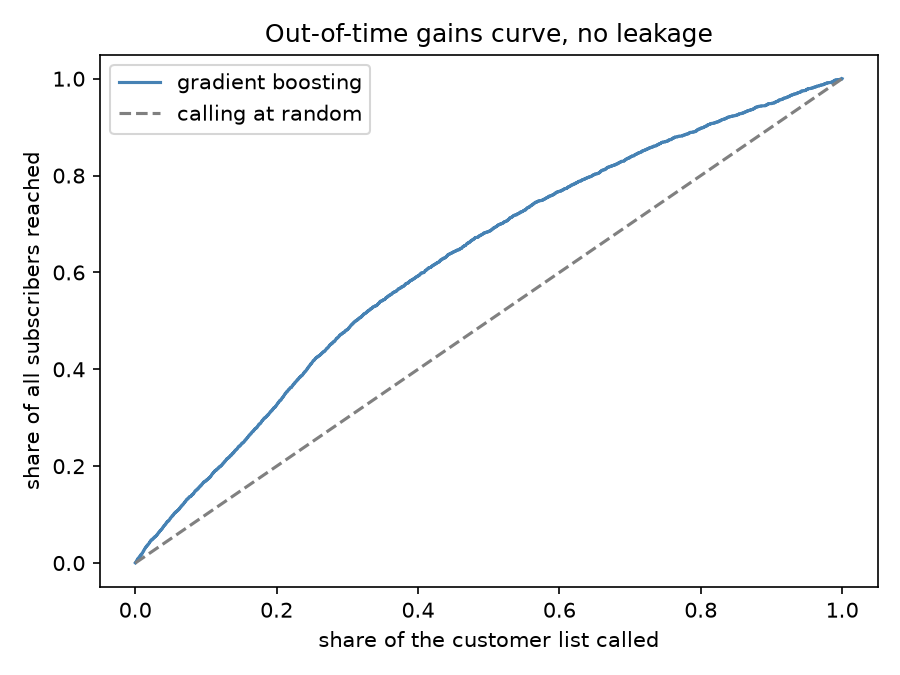
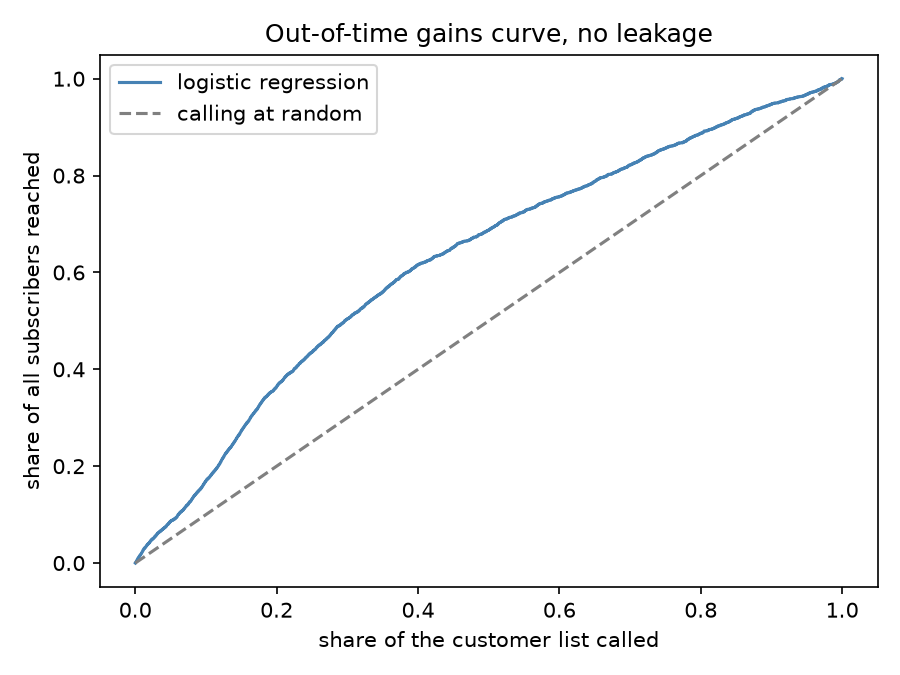
docs: fold the review-round results into README, PLAN and the dev log
README now carries the reference-model evidence, the segment and
calibration artifacts, and the corrected gains figures (top 30% of the
list reaches 50% of subscribers under the logistic reference). PLAN
records the outcomes of the six review items rather than just the
intentions. The development log gains a section on the review round,
including two more wrong test fixtures and the piped-exit-code habit
that let failing commits land before being amended.

diff --git a/README.md b/README.md
@@ -16,12 +16,13 @@ Requires [uv](https://docs.astral.sh/uv/) and Python 3.12+.
 ```bash
 make install    # uv sync — creates .venv from the committed lock file
 make train      # reproduces every number quoted in this repo (~55s)
-make test       # 47 tests
+make test       # 59 tests
 make lint       # ruff
 ```
 
-`make train` reads `data/dataset.csv` and writes `artifacts/results.csv`,
-`artifacts/results.md` and `artifacts/gains_curve.png`. It is seeded, so a second run
+`make train` reads `data/dataset.csv` and writes everything in `artifacts/`: the results
+grid, the reference-model comparison with bootstrap CIs, per-segment metrics, the model
+coefficients, and the gains and reliability curves. It is seeded, so a second run
 reproduces identical numbers.
 
 ## Results
@@ -41,9 +42,24 @@ half is an over-optimistic split. The 0.803 figure matches the range published f
 random-CV treatments of this data, which is a useful sign the pipeline is not doing
 anything exotic.
 
+**The reference model is logistic regression, chosen on evidence rather than habit.**
+Out of time, a paired bootstrap ([artifacts/reference_comparison.md](artifacts/reference_comparison.md))
+shows it statistically tied with gradient boosting on ROC-AUC (delta CI −0.005 to 0.014)
+and *significantly better* on PR-AUC (delta CI 0.001 to 0.023). A tie breaks toward the
+model whose coefficients can be read and challenged.
+
+Two evaluations that a single blended number would hide:
+
+- **Segments** ([artifacts/segments.md](artifacts/segments.md)): the same model scores
+  0.738 AUC on re-contact customers but 0.606 on cold calls — its skill lives mostly in
+  campaign-history features that cold-call customers do not have.
+- **Calibration** ([artifacts/reliability_curve.png](artifacts/reliability_curve.png)):
+  rolling isotonic recalibration improves Brier 0.273 → 0.243 but still under-predicts a
+  drifting base rate; discussed honestly in INSIGHTS §1.5.
+
 ![Out-of-time gains curve](artifacts/gains_curve.png)
 
-Calling the top 30% of the ranked list reaches 48% of all subscribers; the top 10%
+Calling the top 30% of the ranked list reaches 50% of all subscribers; the top 10%
 reaches 17%.
 
 ## Three decisions that shaped the pipeline
@@ -74,13 +90,15 @@ src/term_deposit/
   splits.py         out-of-time and random splits
   preprocessing.py  ColumnTransformer — leakage quarantine, sentinel handling
   models.py         prior baseline, logistic regression, gradient boosting
-  metrics.py        precision@k, lift, PR-AUC, calibration, gains curve
-  experiment.py     the evaluation grid
+  metrics.py        precision@k, lift, PR-AUC, bootstrap CIs, gains curve
+  experiment.py     the evaluation grid, reference comparison, segment evaluation
+  calibration.py    rolling isotonic recalibration
   power.py          sample sizing for the experiment proposed in INSIGHTS.md
   cli.py            `make train`
-tests/              47 tests over the load-bearing logic
+tests/              59 tests over the load-bearing logic
 notebooks/01_eda.ipynb
 artifacts/          committed outputs, so the numbers are checkable without running
+.github/workflows/  lint + tests on every push
 ```
 
 ## Deliberate scope decisions

diff --git a/artifacts/coefficients.md b/artifacts/coefficients.md
@@ -1,0 +1,57 @@
+# Reference model coefficients
+
+Standardised inputs, so magnitudes are roughly comparable. Descriptive of the
+campaign that generated the data — **not** causal effects; see INSIGHTS.md.
+
+|                        |   coefficient |
+|:-----------------------|--------------:|
+| month_oct              |         2.6   |
+| month_mar              |         1.596 |
+| poutcome_success       |         1.184 |
+| job_retired            |         0.402 |
+| month_apr              |         0.376 |
+| contact_cellular       |         0.3   |
+| job_unknown            |         0.154 |
+| day                    |         0.085 |
+| education_tertiary     |         0.064 |
+| balance                |         0.054 |
+| job_unemployed         |         0.015 |
+| job_student            |         0.004 |
+| previous               |        -0.001 |
+| missingindicator_pdays |        -0.011 |
+| job_self-employed      |        -0.029 |
+| job_technician         |        -0.033 |
+| marital_divorced       |        -0.036 |
+| age                    |        -0.044 |
+| contact_telephone      |        -0.051 |
+| month_dec              |        -0.051 |
+| housing_no             |        -0.067 |
+| marital_single         |        -0.086 |
+| job_blue-collar        |        -0.09  |
+| job_admin.             |        -0.099 |
+| job_management         |        -0.108 |
+| month_feb              |        -0.112 |
+| month_jun              |        -0.113 |
+| campaign               |        -0.123 |
+| loan_no                |        -0.128 |
+| education_secondary    |        -0.141 |
+| job_entrepreneur       |        -0.142 |
+| pdays                  |        -0.164 |
+| education_primary      |        -0.173 |
+| default_yes            |        -0.183 |
+| job_services           |        -0.194 |
+| education_unknown      |        -0.259 |
+| month_may              |        -0.304 |
+| default_no             |        -0.326 |
+| loan_yes               |        -0.382 |
+| marital_married        |        -0.386 |
+| job_housemaid          |        -0.39  |
+| housing_yes            |        -0.442 |
+| poutcome_unknown       |        -0.46  |
+| poutcome_other         |        -0.527 |
+| poutcome_failure       |        -0.707 |
+| contact_unknown        |        -0.758 |
+| month_jul              |        -0.812 |
+| month_nov              |        -0.855 |
+| month_aug              |        -1.117 |
+| month_jan              |        -1.716 |

diff --git a/AI_TRANSCRIPTS/development-log.md b/AI_TRANSCRIPTS/development-log.md
@@ -114,7 +114,28 @@ are different claims and the brief is asking about process.
   model variants and more configurability than three hours or the brief justifies. The
   committed `CLAUDE.md` is the standing instruction; it still needed active pushback.
 
-## 6. What the agent was genuinely good at
+## 6. The review round
+
+After the first complete pass I asked the agent to grade the submission as if it were
+the evaluator. Its self-review found six gaps, which became six further commits
+(`docs: plan the review-round improvements` onward). The two that mattered most:
+
+- **The reference model contradicted the results table.** The out-of-time numbers showed
+  logistic regression edging gradient boosting, yet the gains curve and headline quoted
+  GBM — a default nobody re-examined after the numbers came in. A paired bootstrap
+  settled it: statistically tied on ROC-AUC, logistic significantly better on PR-AUC, so
+  the reference switched to the interpretable model.
+- **Part B answered "critique the model" thoroughly but "discover customer insights"
+  only in passing.** The brief asks for both. A descriptive findings section was added,
+  every claim tied to a coefficient or segment rate the artifacts reproduce.
+
+The pattern from §4 held during this round too: two more of the agent's own test
+fixtures were wrong on first write (a "noisy" fixture that was accidentally perfectly
+separable, and an exact float equality on a percentile), and its habit of piping test
+output through `tail` masked pytest's exit code twice, letting commits land before
+failures surfaced — both commits were amended once caught.
+
+## 7. What the agent was genuinely good at
 
 Catching its own errors when asked to verify rather than assert; refusing to publish the
 brief PDF publicly without flagging the consequence first; and research breadth — the

diff --git a/PLAN.md b/PLAN.md
@@ -180,7 +180,8 @@ Stated here and in the README rather than left implicit:
 ## Review round
 
 A self-review against the brief after the first complete pass found six gaps, ranked by
-how likely a reviewer is to probe them. Each is one commit:
+how likely a reviewer is to probe them. Each is one commit. **All six are now done**;
+outcomes noted inline:
 
 1. **Uncertainty on the reported metrics.** The results table quotes AUC to four decimals
    with no confidence intervals. Add percentile-bootstrap CIs, and a *paired* bootstrap
@@ -189,11 +190,15 @@ how likely a reviewer is to probe them. Each is one commit:
    regression (0.6829) edges gradient boosting (0.6786), yet the gains curve and headline
    quote GBM. Decide on the evidence: if the paired CI covers zero they are statistically
    tied, and the tie should break toward the simpler, interpretable model.
+   *Outcome: ROC-AUC delta CI (−0.005, 0.014) — tied; PR-AUC delta CI (0.001, 0.023) —
+   logistic significantly better. Reference switched to logistic regression.*
 3. **Calibration is diagnosed but never treated.** §1.5 of INSIGHTS argues the level is
    wrong by 2x; add a reliability curve artifact and a rolling-recalibration demo showing
    the fix, not just the complaint.
 4. **The population shift is diagnosed but the evaluation never acts on it.** Report
    metrics separately for cold-call vs re-contact segments of the test period.
+   *Outcome: the blended 0.683 AUC splits into 0.738 on re-contacts and 0.606 on cold
+   calls — the model's skill lives mostly in campaign-history features.*
 5. **Part B asks for customer insights, not only critique.** Add a descriptive
    "what drives subscription" section backed by a coefficients artifact.
 6. **CI.** A GitHub Actions workflow running lint and tests on push.

diff --git a/artifacts/reference_comparison.md b/artifacts/reference_comparison.md
@@ -1,0 +1,10 @@
+# Reference model comparison
+
+Temporal split, no `duration`. CIs are 95% percentile bootstrap (n=1000); the
+delta is a *paired* bootstrap of logistic minus GBM on identical resamples.
+A delta interval covering zero means the models cannot be told apart here.
+
+| metric | logistic | 95% CI | GBM | 95% CI | delta (L−G) 95% CI |
+| --- | --- | --- | --- | --- | --- |
+| roc_auc | 0.6829 | (0.6705, 0.6947) | 0.6786 | (0.6665, 0.6898) | (-0.0048, 0.0144) |
+| pr_auc | 0.4849 | (0.4657, 0.5047) | 0.4725 | (0.4539, 0.4917) | (0.0014, 0.0233) |

diff --git a/artifacts/segments.md b/artifacts/segments.md
@@ -1,0 +1,5 @@
+| segment                 |    n |   base_rate |   roc_auc |   pr_auc |   precision@10% |
+|:------------------------|-----:|------------:|----------:|---------:|----------------:|
+| all                     | 9201 |      0.3111 |    0.6829 |   0.4849 |          0.5261 |
+| cold call (pdays == -1) | 4688 |      0.2624 |    0.6056 |   0.3507 |          0.4307 |
+| re-contact (pdays >= 0) | 4513 |      0.3616 |    0.7381 |   0.5859 |          0.6231 |
